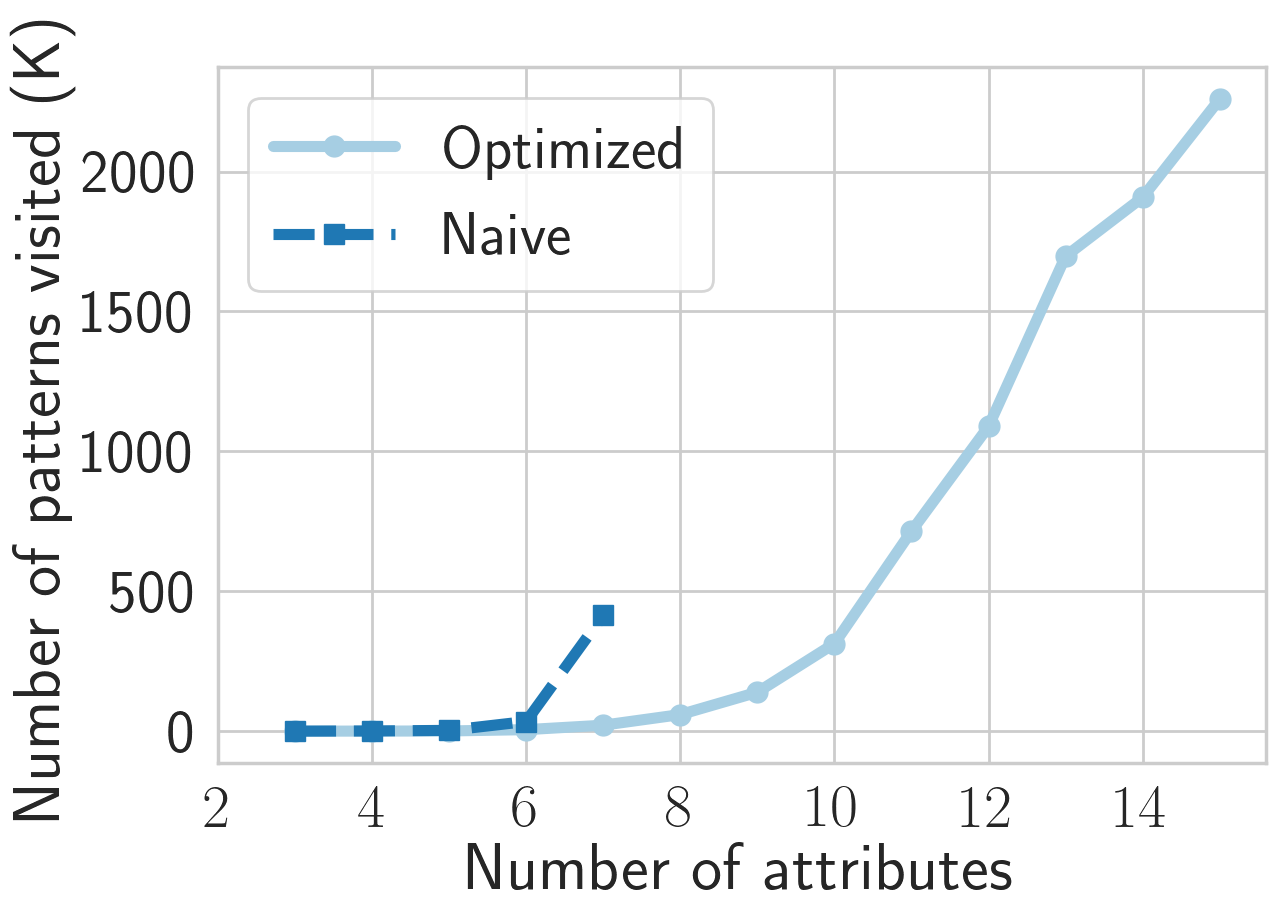
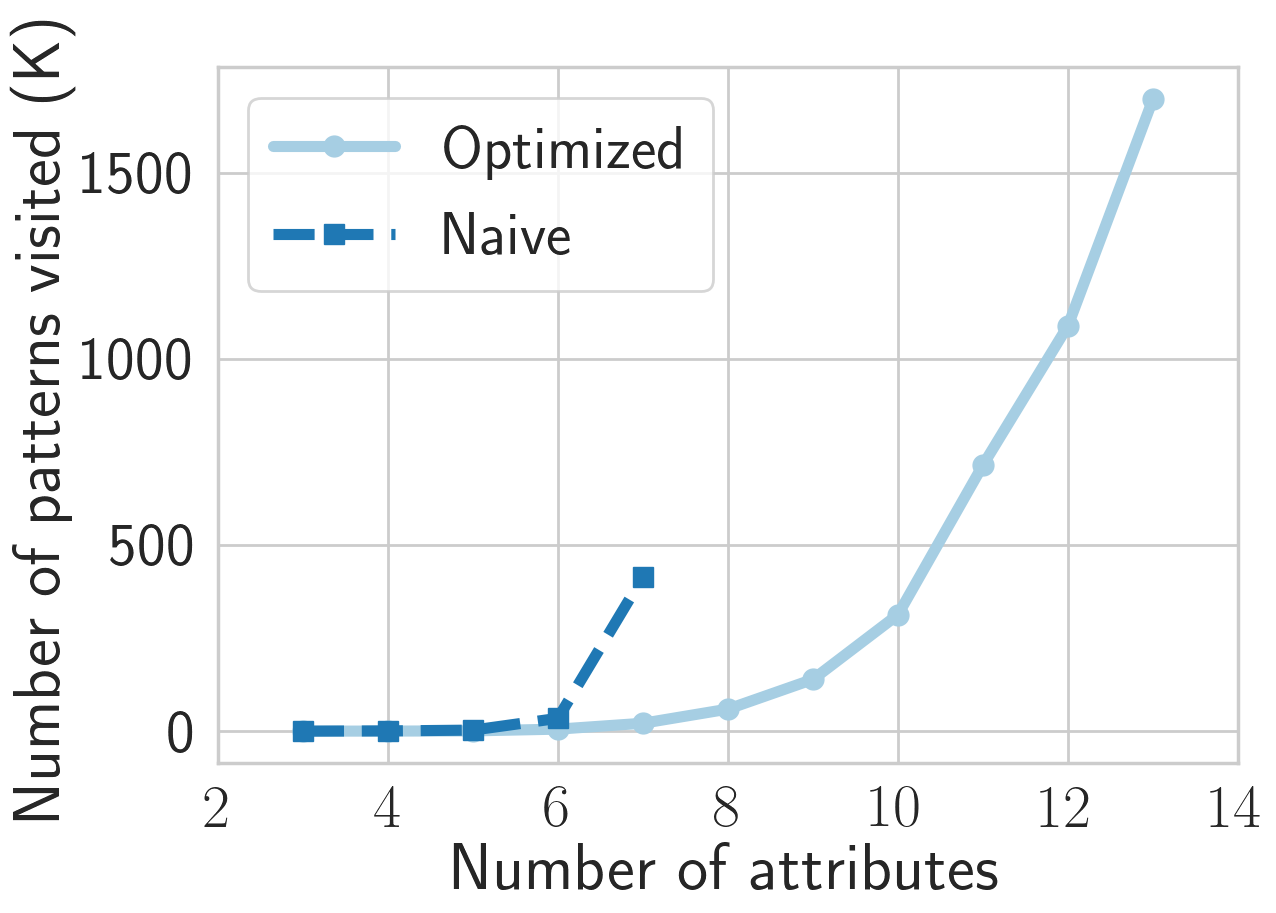
general, credit card, num att

diff --git a/Coding/Experiments/General_FP/CreditcardData/num_attributes_4_20211211.py b/Coding/Experiments/General_FP/CreditcardData/num_attributes_4_20211211.py
@@ -1,0 +1,290 @@
+"""
+This script is to do experiment on the number of attribtues.
+
+two charts: running time, number of patterns checked
+y axis: running time, number of patterns checked
+
+x axis: the number of attributes, from 2 to 13.
+
+other parameters:
+CleanAdult2.csv
+size threshold Thc = 30
+threshold of minority group accuracy: overall acc - 20
+"""
+
+
+import pandas as pd
+from Algorithms import pattern_count
+from Algorithms import WholeProcess_0_20201211 as wholeprocess
+from Algorithms import NewAlgGeneral_1_20210528 as newalg
+from Algorithms import NaiveAlgGeneral_2_20211020 as naivealg
+from Algorithms import Predict_0_20210127 as predict
+
+import matplotlib.pyplot as plt
+import seaborn as sns
+from matplotlib.ticker import FuncFormatter
+
+plt.rc('text', usetex=True)
+plt.rc('font', family='serif')
+
+
+sns.set_palette("Paired")
+# sns.set_palette("deep")
+sns.set_context("poster", font_scale=2)
+sns.set_style("whitegrid")
+# sns.palplot(sns.color_palette("deep", 10))
+# sns.palplot(sns.color_palette("Paired", 9))
+
+line_style = ['o-', 's--', '^:', '-.p']
+color = ['C0', 'C1', 'C2', 'C3', 'C4']
+plt_title = ["BlueNile", "COMPAS", "Credit Card"]
+
+label = ["Optimized", "Naive"]
+line_width = 8
+marker_size = 15
+# f_size = (14, 10)
+
+f_size = (14, 10)
+
+
+def ComparePatternSets(set1, set2):
+    len1 = len(set1)
+    len2 = len(set2)
+    if len1 != len2:
+        return False
+    for p in set1:
+        found = False
+        for q in set2:
+            if newalg.PatternEqual(p, q):
+                found = True
+                break
+        if found is False:
+            return False
+    return True
+
+def thousands_formatter(x, pos):
+    return int(x/1000)
+
+def GridSearch(original_data, TP, TN, FP, FN, all_attributes, thc, number_attributes, time_limit, only_new_alg=False):
+    selected_attributes = all_attributes[:number_attributes]
+    print("{} attributes: {}".format(number_attributes, selected_attributes))
+
+    less_attribute_data = original_data[selected_attributes]
+    FP = FP[selected_attributes]
+    TN = TN[selected_attributes]
+    FN = FN[selected_attributes]
+    TP = TP[selected_attributes]
+
+    original_thf_FPR = len(FP) / (len(FP) + len(TN))
+
+    delta_thf = 0.2
+    fairness_definition = 1
+
+    if only_new_alg:
+
+        pattern_with_low_fairness1, num_calculation1, execution_time1 = newalg.GraphTraverse(less_attribute_data,
+                                                                                TP, TN, FP, FN, delta_thf,
+                                                                                thc, time_limit, fairness_definition)
+        print("newalg, time = {} s, num_calculation = {}".format(execution_time1, num_calculation1))
+
+        print("{} patterns with low accuracy: \n {}".format(len(pattern_with_low_fairness1), pattern_with_low_fairness1))
+        if execution_time1 > time_limit:
+            raise Exception("new alg over time")
+        return execution_time1, num_calculation1, 0, 0, pattern_with_low_fairness1
+
+
+
+    pattern_with_low_fairness1, num_calculation1, execution_time1 = newalg.GraphTraverse(less_attribute_data,
+                                                                                         TP, TN, FP, FN, delta_thf,
+                                                                                         thc, time_limit,
+                                                                                         fairness_definition)
+    print("newalg, time = {} s, num_calculation = {}".format(execution_time1, num_calculation1), "\n", pattern_with_low_fairness1)
+
+    pattern_with_low_fairness2, num_calculation2, execution_time2 = naivealg.NaiveAlg(less_attribute_data,
+                                                                     TP, TN, FP, FN, delta_thf,
+                                                                     thc, time_limit, fairness_definition)
+    print("naivealg, time = {} s, num_calculation = {}".format(execution_time2, num_calculation2), "\n",
+          pattern_with_low_fairness2)
+
+
+
+    if ComparePatternSets(pattern_with_low_fairness1, pattern_with_low_fairness2) is False:
+        raise Exception("sanity check fails!")
+
+
+    print("{} patterns with low accuracy: \n {}".format(len(pattern_with_low_fairness1), pattern_with_low_fairness1))
+
+    if execution_time1 > time_limit:
+        raise Exception("new alg exceeds time limit")
+    if execution_time2 > time_limit:
+        raise Exception("naive alg exceeds time limit")
+
+    return execution_time1, num_calculation1, execution_time2, num_calculation2, \
+           pattern_with_low_fairness1
+
+
+all_attributes = ['limit_bal', 'sex', 'education', 'marriage', 'age', 'pay_0', 'pay_2',
+              'pay_3', 'pay_4', 'pay_5', 'pay_6', 'bill_amt1', 'bill_amt2',
+              'bill_amt3', 'bill_amt4', 'bill_amt5', 'bill_amt6', 'pay_amt1',
+              'pay_amt2', 'pay_amt3', 'pay_amt4', 'pay_amt5', 'pay_amt6']
+
+thc = 50
+
+original_data_file = "../../../../InputData/CreditcardDataset/ForClassification/credit_card_clients_categorized_testdata.csv"
+original_data = pd.read_csv(original_data_file)
+FP_data_file = "../../../../InputData/CreditcardDataset/ForClassification/credit_card_clients_categorized_FP.csv"
+FP = pd.read_csv(FP_data_file)
+TP_data_file = "../../../../InputData/CreditcardDataset/ForClassification/credit_card_clients_categorized_TP.csv"
+TP = pd.read_csv(TP_data_file)
+FN_data_file = "../../../../InputData/CreditcardDataset/ForClassification/credit_card_clients_categorized_FN.csv"
+FN = pd.read_csv(FN_data_file)
+TN_data_file = "../../../../InputData/CreditcardDataset/ForClassification/credit_card_clients_categorized_TN.csv"
+TN = pd.read_csv(TN_data_file)
+
+overall_FPR = len(FP) / (len(FP) + len(TN))
+
+time_limit = 10*60
+
+# with 7 att, naive alg needs 40 s
+# with 8 att, naive alg time out (over 10min)
+# with 14 att, new alg over time > 10min
+num_att_max_naive = 8
+num_att_min = 3
+num_att_max = 14
+execution_time1 = list()
+execution_time2 = list()
+num_calculation1 = list()
+num_calculation2 = list()
+num_pattern_skipped_mis_c1 = list()
+num_pattern_skipped_mis_c2 = list()
+num_pattern_skipped_whole_c1 = list()
+num_pattern_skipped_whole_c2 = list()
+num_patterns_found = list()
+patterns_found = list()
+num_loops = 1
+
+
+
+for number_attributes in range(num_att_min, num_att_max_naive):
+    print("\n\nnumber of attributes = {}".format(number_attributes))
+    t1, t2, calculation1, calculation2 = 0, 0, 0, 0
+    result_cardinality = 0
+    for l in range(num_loops):
+        t1_, calculation1_,  t2_, calculation2_, result = \
+            GridSearch(original_data, TP, TN, FP, FN, all_attributes, thc, number_attributes, time_limit)
+        t1 += t1_
+        t2 += t2_
+        calculation1 += calculation1_
+        calculation2 += calculation2_
+        if l == 0:
+            result_cardinality = len(result)
+            patterns_found.append(result)
+            num_patterns_found.append(result_cardinality)
+    t1 /= num_loops
+    t2 /= num_loops
+    calculation1 /= num_loops
+    calculation2 /= num_loops
+
+    execution_time1.append(t1)
+    num_calculation1.append(calculation1)
+    execution_time2.append(t2)
+    num_calculation2.append(calculation2)
+
+
+
+for number_attributes in range(num_att_max_naive, num_att_max):
+    print("\n\nnumber of attributes = {}".format(number_attributes))
+    t1, calculation1 = 0, 0
+    result_cardinality = 0
+    for l in range(num_loops):
+        t1_, calculation1_,  _, _, result = \
+            GridSearch(original_data, TP, TN, FP, FN, all_attributes, thc, number_attributes, time_limit, True)
+        t1 += t1_
+        calculation1 += calculation1_
+        if l == 0:
+            result_cardinality = len(result)
+            patterns_found.append(result)
+            num_patterns_found.append(result_cardinality)
+    t1 /= num_loops
+    calculation1 /= num_loops
+
+    execution_time1.append(t1)
+    num_calculation1.append(calculation1)
+
+
+
+output_path = r'../../../../OutputData/General_withStopCond/CreditcardDataset/num_attribute_14att.txt'
+output_file = open(output_path, "w")
+num_lines = len(execution_time1)
+
+output_file.write("overall FPR: {}\n".format(overall_FPR))
+
+output_file.write("execution time\n")
+for n in range(num_att_min, num_att_max_naive):
+    output_file.write('{} {} {}\n'.format(n, execution_time1[n-num_att_min], execution_time2[n-num_att_min]))
+for n in range(num_att_max_naive, num_att_max):
+    output_file.write('{} {}\n'.format(n, execution_time1[n - num_att_max_naive]))
+
+
+output_file.write("\n\nnumber of patterns checked\n")
+for n in range(num_att_min, num_att_max_naive):
+    output_file.write('{} {} {}\n'.format(n, num_calculation1[n-num_att_min], num_calculation2[n-num_att_min]))
+for n in range(num_att_max_naive, num_att_max):
+    output_file.write('{} {}\n'.format(n, num_calculation1[n-num_att_max_naive]))
+
+
+
+output_file.write("\n\nnumber of patterns found\n")
+for n in range(num_att_min, num_att_max_naive):
+    output_file.write('{} {} \n {}\n'.format(n, num_patterns_found[n], patterns_found[n]))
+
+
+
+
+# when number of attributes = 8, naive algorithm running time > 10min
+# so we only use x[:6]
+x_new = list(range(num_att_min, num_att_max))
+x_naive = list(range(num_att_min, num_att_max_naive))
+
+
+
+
+
+fig, ax = plt.subplots(1, 1, figsize=f_size)
+plt.plot(x_new, execution_time1, line_style[0], color=color[0], label=label[0], linewidth=line_width,
+          markersize=marker_size)
+plt.plot(x_naive, execution_time2 , line_style[1], color=color[1], label=label[1], linewidth=line_width,
+          markersize=marker_size)
+plt.xlabel('Number of attributes')
+plt.ylabel('Execution time (s)')
+plt.xticks([2, 4, 6, 8, 10, 12, 14])
+plt.legend(loc='best')
+plt.grid(True)
+fig.tight_layout()
+plt.savefig("../../../../OutputData/General_withStopCond/CreditcardDataset/num_att_time.png", bbox_inches='tight')
+plt.show()
+plt.close()
+
+
+
+
+
+fig, ax = plt.subplots(1, 1, figsize=f_size)
+plt.plot(x_new, num_calculation1, line_style[0], color=color[0], label=label[0], linewidth=line_width,
+          markersize=marker_size)
+plt.plot(x_naive, num_calculation2, line_style[1], color=color[1], label=label[1], linewidth=line_width,
+          markersize=marker_size)
+plt.xlabel('Number of attributes')
+plt.ylabel('Number of patterns visited (K)')
+ax.yaxis.set_major_formatter(FuncFormatter(thousands_formatter))
+plt.xticks([2, 4, 6, 8, 10, 12, 14])
+plt.legend(loc='best')
+plt.grid(True)
+fig.tight_layout()
+plt.savefig("../../../../OutputData/General_withStopCond/CreditcardDataset/num_att_calculations.png", bbox_inches='tight')
+plt.show()
+plt.close()
+
+
+plt.clf()
+
